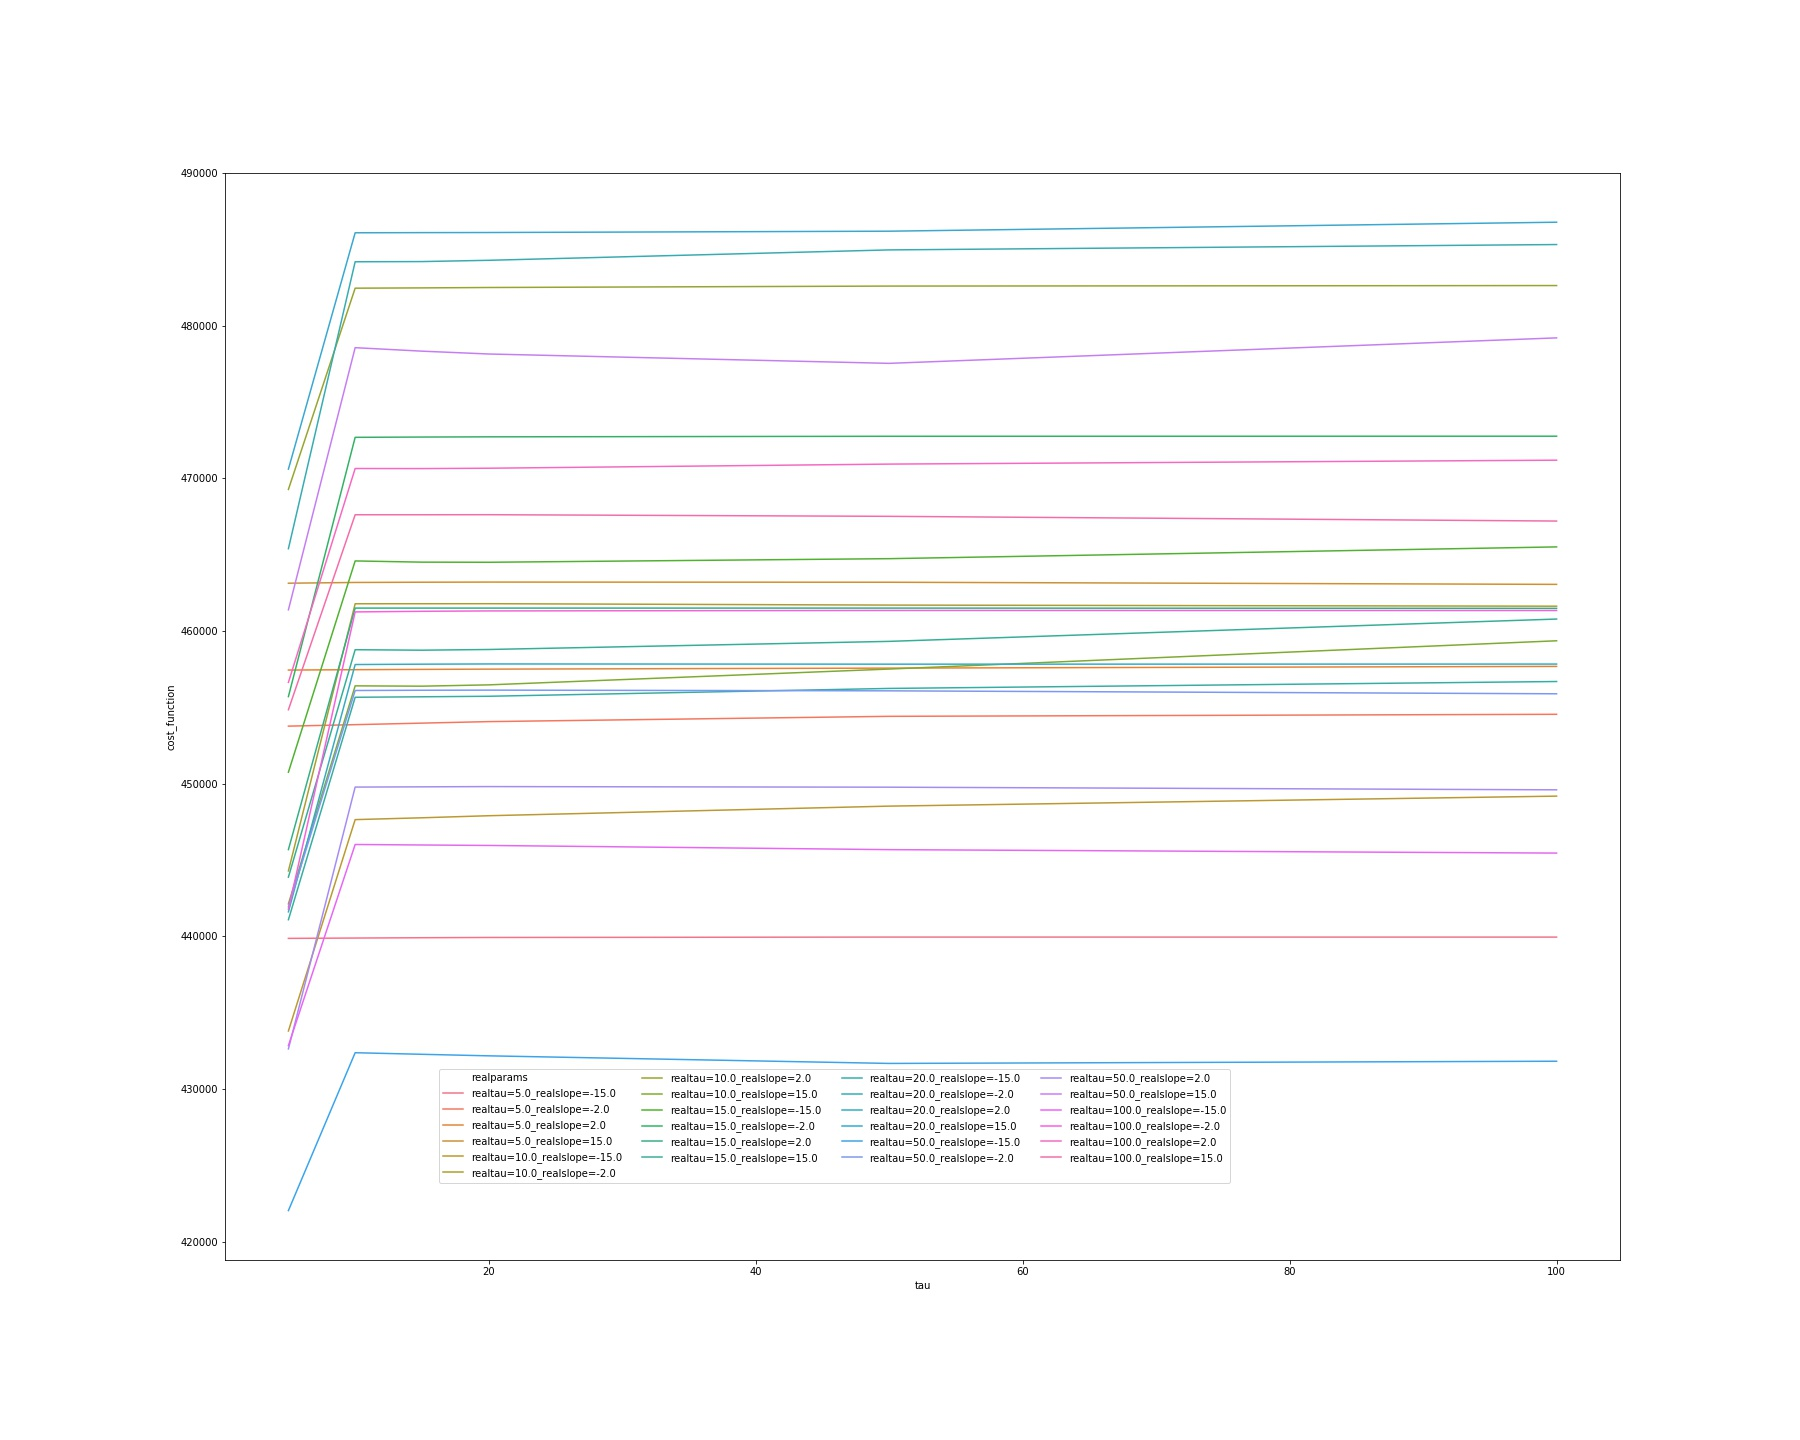
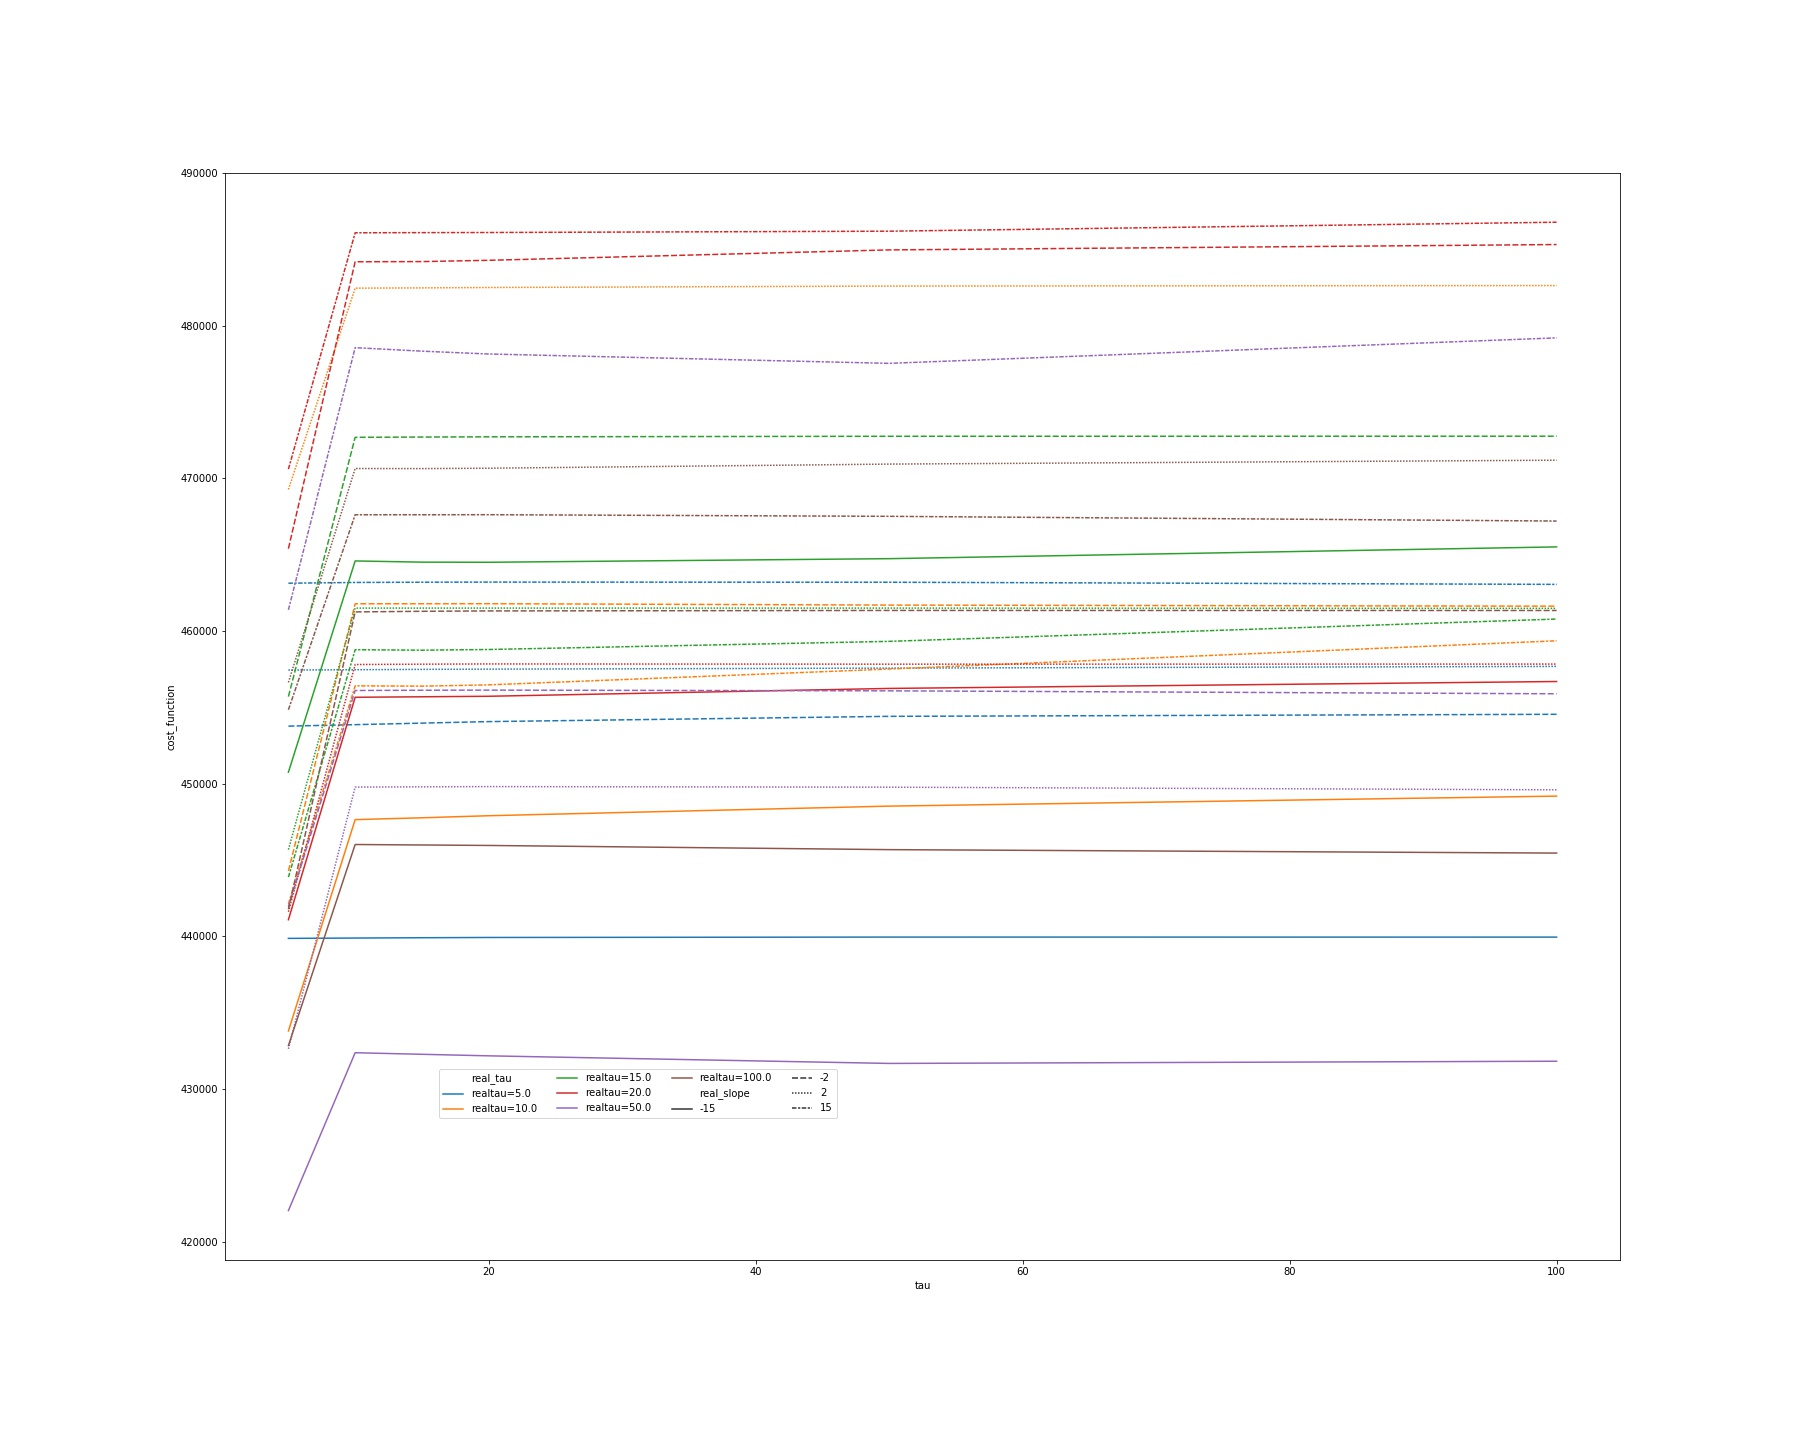
improved parameter recovery plots

diff --git a/Exploration_Recovery.py b/Exploration_Recovery.py
@@ -138,27 +138,27 @@ realvals = pd.read_csv('Simudata/simufile_realvals.csv', sep=";", index_col=0)
 recovery = pd.read_csv("Simudata/recovery_all_simfiles.csv", sep=";", index_col=0)
 
 merged = pd.merge(left=realvals, right=recovery, on="simufile")
-merged['realparams'] = merged.apply(lambda row: "realtau=" + str(row.real_tau) + "_realslope=" + str(row.real_slope), axis=1)
+#merged['realparams'] = merged.apply(lambda row: "realtau=" + str(row.real_tau) + "_realslope=" + str(row.real_slope), axis=1)
 
 recov_smallvar = merged[round(merged.real_sigmasqr) == round(1)]
 recov_medvar = merged[round(merged.real_sigmasqr) == round(medvar)]
 recov_meanvar = merged[round(merged.real_sigmasqr) == round(meanvar)]
 
-smallvarplot = sns.lineplot(x="tau", y="cost_function", data=recov_smallvar, hue='realparams', legend="brief")
+smallvarplot = sns.lineplot(x="tau", y="cost_function", data=recov_smallvar, hue='real_tau', style='real_slope', legend="brief")
 smallvarplot.legend(loc="top left", bbox_to_anchor=(0.5, 0.5), ncol=2)
 smallvarplot.get_figure().set_size_inches(25, 20)
-smallvarplot.get_figure().savefig("Simudata/smallvar_recovery.jpg", dpi=500)
+smallvarplot.get_figure().savefig("Simudata/smallvar_recovery.jpg")
 plt.clf()
 
-medvarplot = sns.lineplot(x="tau", y="cost_function", data=recov_medvar, hue='realparams', legend="brief")
+medvarplot = sns.lineplot(x="tau", y="cost_function", data=recov_medvar, hue='real_tau', style='real_slope', legend="brief")
 medvarplot.legend(bbox_to_anchor=(0.15, 0.18), ncol=4)
 medvarplot.get_figure().set_size_inches(25, 20)
-medvarplot.get_figure().savefig("Simudata/medianvar_recovery.jpg", dpi=500)
+medvarplot.get_figure().savefig("Simudata/medianvar_recovery.jpg")
 plt.clf()
 
-meanvarplot = sns.lineplot(x="tau", y="cost_function", data=recov_meanvar, hue='realparams', legend="brief")
+meanvarplot = sns.lineplot(x="tau", y="cost_function", data=recov_meanvar, hue='real_tau', style='real_slope', legend="brief")
 meanvarplot.legend(bbox_to_anchor=(0.15, 0.18), ncol=4)
 meanvarplot.get_figure().set_size_inches(25, 20)
-meanvarplot.get_figure().savefig("Simudata/meanvar_recovery.jpg", dpi=500)
+meanvarplot.get_figure().savefig("Simudata/meanvar_recovery.jpg")
 plt.clf()
 
